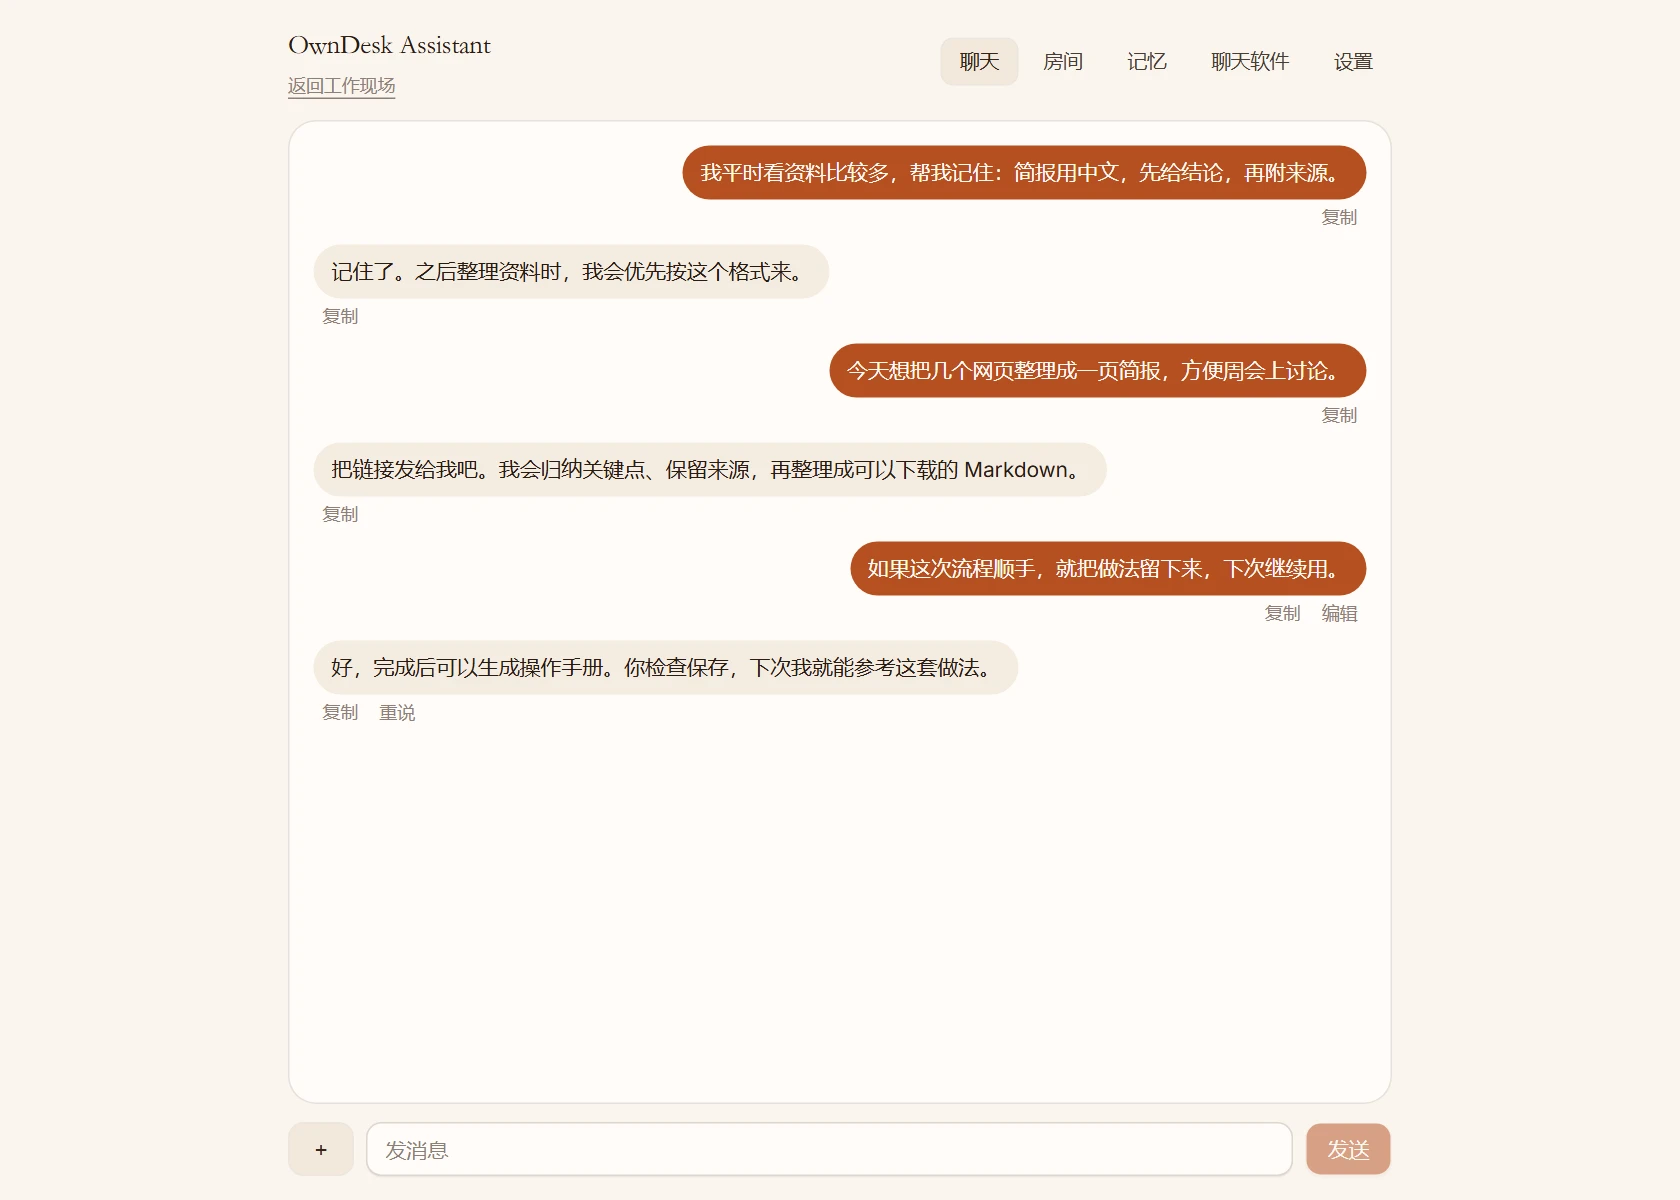
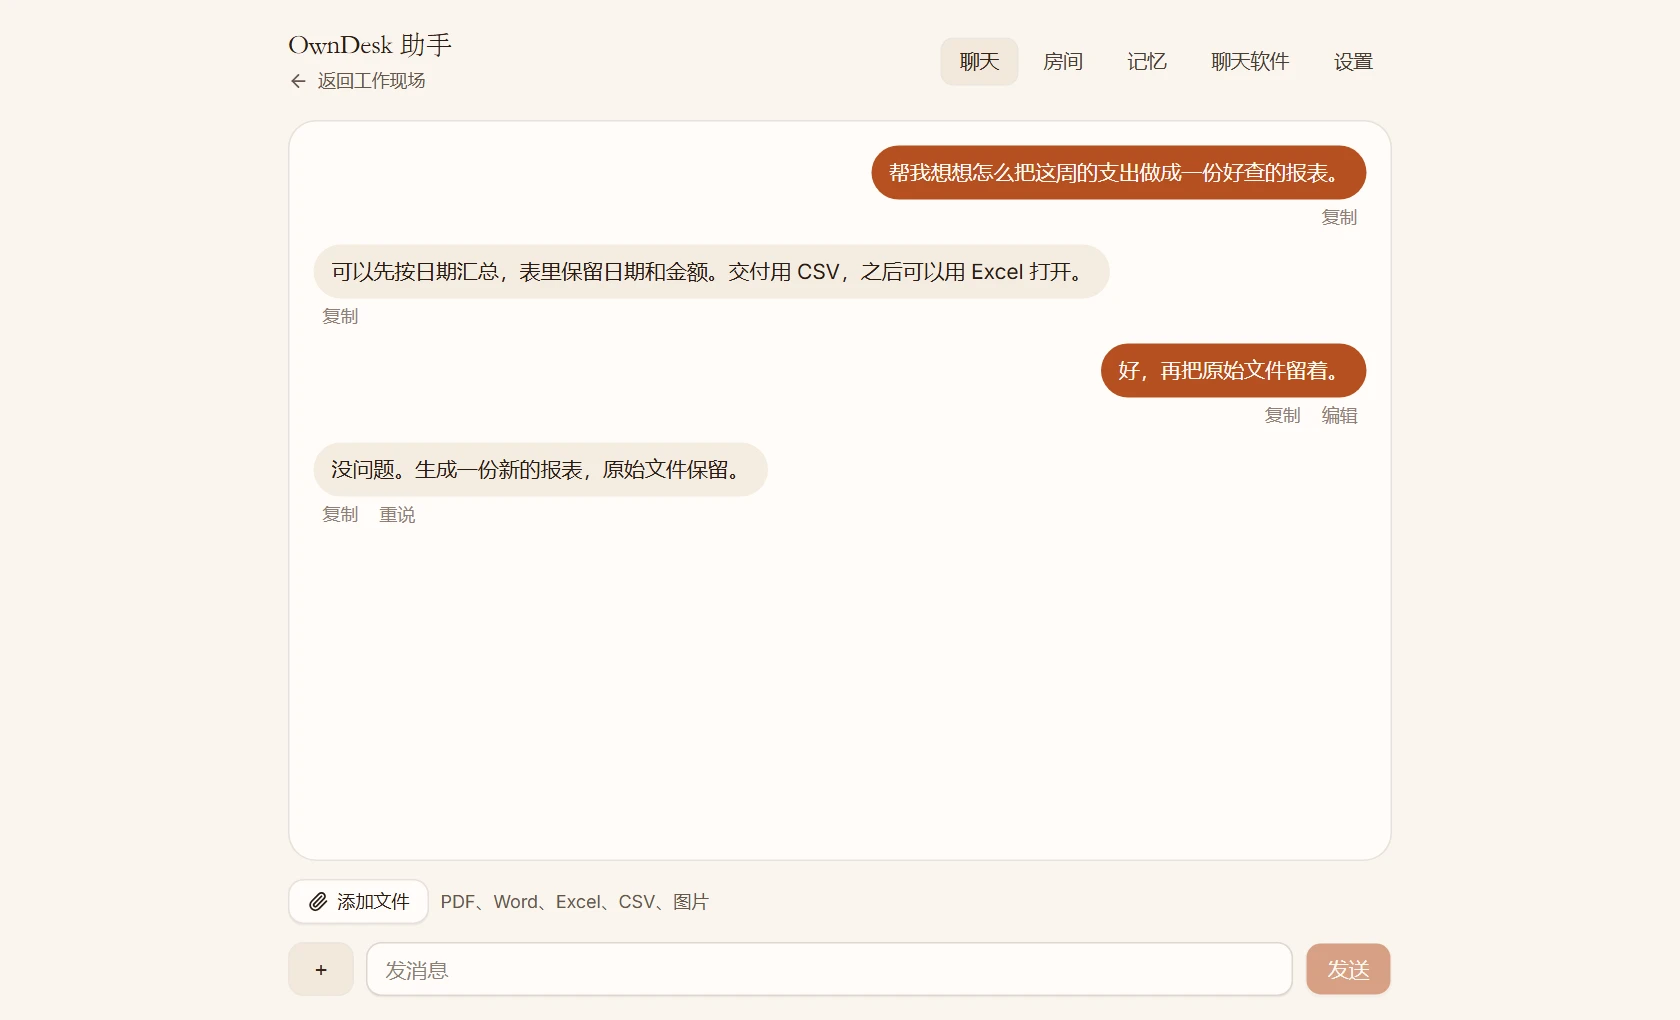
Refresh README for the frontend workspace [skip ci]

diff --git a/docs/README-SHOWCASE.md b/docs/README-SHOWCASE.md
@@ -1,10 +1,10 @@
 # README showcase notes / README 展示说明
 
-Updated / 更新：2026-11-18
+Updated / 更新：2026-11-19
 
 ## References / 参考项目
 
-The README structure was informed by these repositories. Star counts are GitHub API snapshots and describe the reference projects.
+The screenshots and README structure were refreshed after PR #27; the README structure was informed by these repositories. Star counts are GitHub API snapshots and describe the reference projects.
 
 以下为实际阅读过的同类项目 README。Star 数量取自 GitHub API，仅用于说明参考项目规模。
 
@@ -23,24 +23,25 @@ OwnDesk 的文案围绕已有的桌面操作、接管交还、成果下载、长
 
 ## Screenshot provenance / 截图来源
 
-- **Source / 源码**: OwnDesk revision `4fe5239fe27d7ef91038629348f0b470fd11e288`.
-- **Capture / 采集**: a separately running Next.js application, an isolated PostgreSQL database, and Playwright Chromium `156.0.8078.4`; captured on 2026-11-08.
-- **Content / 内容**: a dedicated demo owner, sample conversations, sample memory notes, a saved sample manual, and a downloadable sample Markdown file. The completed task and manual are seeded examples for UI illustration, not a model-run result or evidence that the manual was generated automatically. 示例任务、完成状态、记忆和手册均为专门准备的展示数据。
+- **Source / 源码**: OwnDesk revision `d093ea82dcc3a07f8a278430b349674490af14f3` (PR #27).
+- **Capture / 采集**: a separately running Next.js application, an isolated PostgreSQL database, and Playwright Chromium `156.0.8078.4`; captured on 2026-11-18.
+- **Content / 内容**: a dedicated demo owner, a synthetic completed task, a saved artifact, sample memory notes, and a saved sample manual. The task, status, artifact, and manual are seeded examples for UI illustration, not a model-run result or evidence that the manual was generated automatically. 示例任务、完成状态、成果、记忆和手册均为专门准备的展示数据。
 - **Application / 应用**: original Chinese UI and styles. Preview-only settings disable the development indicator and use a separate build directory. No UI labels or result states were altered in the browser for capture.
 - **Scope / 范围**: web interface screenshots; a Docker desktop or real model was not started for this capture. Real desktop/model evidence remains in `docs/evidence/`. 本次截图未运行模型或 Docker 桌面，真实执行证据见已有报告。
 - **Files / 文件**: WebP images with no browser chrome, credentials, private conversations, or third-party artwork.
 
-| Asset / 图片                            | CSS viewport / 视口   | Page / 页面              | What it shows / 展示内容                                                                    |
-| --------------------------------------- | --------------------- | ------------------------ | ------------------------------------------------------------------------------------------- |
-| [workspace.webp](images/workspace.webp) | 1440 × 1080           | `/`                      | Conversation navigation, sample delivery, follow-up composer / 会话导航、示例交付、追问入口 |
-| [companion.webp](images/companion.webp) | 1120 × 800            | `/companion`             | Companion chat / 陪伴聊天                                                                   |
-| [memory.webp](images/memory.webp)       | 1120 × 800            | `/companion`, memory tab | Editable saved notes / 可编辑记忆                                                           |
-| [manuals.webp](images/manuals.webp)     | 1120 × 800, full page | `/manuals`               | A saved sample manual and expanded steps / 示例手册与展开的操作步骤                         |
-| [mobile.webp](images/mobile.webp)       | 390 × 844             | `/companion`             | Mobile chat layout / 手机聊天界面                                                           |
+| Asset / 图片                                          | CSS viewport / 视口   | Page / 页面              | What it shows / 展示内容                                                                                                |
+| ----------------------------------------------------- | --------------------- | ------------------------ | ----------------------------------------------------------------------------------------------------------------------- |
+| [workspace.webp](images/workspace.webp)               | 1280 × 785            | `/`                      | Workspace navigation, completed task, execution record, downloadable CSV / 工作区导航、已完成任务、执行记录、可下载 CSV |
+| [workspace-mobile.webp](images/workspace-mobile.webp) | 390 × 844             | `/`                      | Compact task workspace / 小屏任务工作区                                                                                 |
+| [companion.webp](images/companion.webp)               | 1120 × 680            | `/companion`             | Companion chat / 陪伴聊天                                                                                               |
+| [memory.webp](images/memory.webp)                     | 1120 × 680            | `/companion`, memory tab | Editable saved notes / 可编辑记忆                                                                                       |
+| [manuals.webp](images/manuals.webp)                   | 1120 × 680, full page | `/manuals`               | A saved sample manual and expanded steps / 示例手册与展开的操作步骤                                                     |
+| [mobile.webp](images/mobile.webp)                     | 390 × 844             | `/companion`             | Mobile chat layout / 手机聊天界面                                                                                       |
 
-Captured at device scale factor 1.5 and encoded as WebP at quality 90. The sample artifact was downloaded through the authenticated application endpoint and its contents checked. The mobile page had no horizontal overflow; no browser page errors were observed. These are interface checks, separate from agent execution validation.
+Captured at device scale factor 1.5 and encoded as WebP at quality 90. The sample artifact was downloaded through the authenticated application endpoint and its contents checked. The workspace, companion, and settings pages had no horizontal overflow; no browser page errors were observed. These are interface checks, separate from agent execution validation.
 
-所有截图采用 1.5 倍设备像素比、WebP 质量 90。已通过登录后的真实下载接口检查示例文件内容；390 像素页面无横向溢出，采集过程中无浏览器页面异常。这些检查仅针对界面和下载。
+所有截图采用 1.5 倍设备像素比、WebP 质量 90。已通过登录后的真实下载接口检查示例文件内容；工作区、陪伴页和设置页在 390 像素下无横向溢出，采集过程中无浏览器页面异常。这些检查仅针对界面和下载。
 
 To refresh the gallery, use a separate source checkout and empty database, create a demo owner and clearly illustrative content, start the web app, and capture the same pages and viewport sizes. Review every image before replacing it, then update the source revision and capture date here.
 
@@ -48,11 +49,11 @@ To refresh the gallery, use a separate source checkout and empty database, creat
 
 ## Self-improvement screenshots / 自我改进截图
 
-These two images come from local test instances during the PR #25 acceptance runs. The pages were captured at a 1280 × 900 viewport, cropped to remove the sidebar and empty margins, and saved as WebP. The instances used synthetic data; no credentials or private conversations are visible.
+These two images come from local test instances. The pages were captured at a 1120 × 800 viewport for the improvement report and a 1120 × 610 viewport for the versions page, then saved as WebP. The instances used synthetic data; no credentials or private conversations are visible.
 
-这两张图来自 PR #25 验收时的本机测试实例。页面以 1280 × 900 视口截图，裁掉侧栏和空白后保存为 WebP。测试实例使用合成数据，画面里没有凭据和私人对话。
+这两张图来自本机测试实例。自我改进页使用 1120 × 800 视口，版本页使用 1120 × 610 视口，保存为 WebP。测试实例使用合成数据，画面里没有凭据和私人对话。
 
-| Asset / 图片                                              | Captured / 日期 | Page / 页面     | Crop / 裁剪          | What it shows / 展示内容                                                                                                      |
-| --------------------------------------------------------- | --------------- | --------------- | -------------------- | ----------------------------------------------------------------------------------------------------------------------------- |
-| [improvement-report.webp](images/improvement-report.webp) | 2026-11-18      | `/improvements` | (130, 66, 1150, 880) | A candidate that passed every check, with adopt, revise, and discard actions / 全部检查通过的候选，以及采用、再改改、放弃按钮 |
-| [versions.webp](images/versions.webp)                     | 2026-11-17      | `/versions`     | (130, 66, 1150, 694) | Current and kept versions, with an automatic rollback in the switch history / 当前版本、保留版本和包含自动回退的切换记录      |
+| Asset / 图片                                              | Captured / 日期 | Page / 页面     | Crop / 裁剪 | What it shows / 展示内容                                                                                                      |
+| --------------------------------------------------------- | --------------- | --------------- | ----------- | ----------------------------------------------------------------------------------------------------------------------------- |
+| [improvement-report.webp](images/improvement-report.webp) | 2026-11-19      | `/improvements` | full page   | A candidate that passed every check, with adopt, revise, and discard actions / 全部检查通过的候选，以及采用、再改改、放弃按钮 |
+| [versions.webp](images/versions.webp)                     | 2026-11-19      | `/versions`     | full page   | Current and kept versions, with an automatic rollback in the switch history / 当前版本、保留版本和包含自动回退的切换记录      |

diff --git a/README.zh-CN.md b/README.zh-CN.md
@@ -20,7 +20,7 @@
 
 </div>
 
-![OwnDesk 任务工作区：对话、完成回复与可下载的 Markdown 简报](docs/images/workspace.webp)
+![OwnDesk 任务工作区：导航、已完成任务、执行记录与可下载的 CSV](docs/images/workspace.webp)
 
 用大白话把任务交给 OwnDesk。它会打开浏览器、处理文件、使用桌面应用，最后交给你可以下载的成果。执行过程中你可以看它的屏幕，遇到登录时接手，处理完再交还。大一点的目标会分成多轮推进，直到完成。
 
@@ -41,16 +41,16 @@
 
 配置好模型后，可以这样交办：
 
-| 想完成的事              | 发给 OwnDesk 的话                                                              |
-| ----------------------- | ------------------------------------------------------------------------------ |
-| **快速了解一个主题**    | “读一下这个公开网页，整理三个要点，保留来源链接，生成 `brief.md` 给我下载。”   |
-| **整理工作目录**        | “把工作站这个目录中的文件分成资料、图片和归档，保留原文件名，完成后核对结果。” |
-| **接着登录后的工作做**  | “打开这个控制台，遇到登录先叫我接管；我交还桌面后，你继续处理。”               |
-| **推进一个长期目标**    | “做一份最近三个月的 `expenses.csv`，每轮补一个月，三个月都齐了就停。”          |
-| **复用熟悉的流程**      | “参考已保存的资料整理手册，按这次主题生成一份新简报。”                         |
-| **让 OwnDesk 改进自己** | “在版本页加一句说明：回退会保留任务和文件。”                                   |
+| 想完成的事             | 发给 OwnDesk 的话                                                              |
+| ---------------------- | ------------------------------------------------------------------------------ |
+| **快速了解一个主题**   | “读一下这个公开网页，整理三个要点，保留来源链接，生成 `brief.md` 给我下载。”   |
+| **整理工作目录**       | “把工作站这个目录中的文件分成资料、图片和归档，保留原文件名，完成后核对结果。” |
+| **接着登录后的工作做** | “打开这个控制台，遇到登录先叫我接管；我交还桌面后，你继续处理。”               |
+| **推进一个长期目标**   | “做一份最近三个月的 `expenses.csv`，每轮补一个月，三个月都齐了就停。”          |
+| **复用熟悉的流程**     | “参考已保存的资料整理手册，按这次主题生成一份新简报。”                         |
+| **查看版本变化**       | “打开版本页，看看保留的版本和回退记录。”                                       |
 
-任务完成后，点击 **生成操作手册**，审阅草稿并保存，下次就能照着做。
+任务完成后，点击 **生成操作手册**，审阅草稿并保存，下次就能照着做。桌面端使用侧栏切换功能，小屏页面使用 **页面导航** 在聊天、目标、改进、版本、手册和流程之间切换。
 
 ## 自我改进与自动回退
 
@@ -119,10 +119,10 @@ flowchart LR
 <details>
 <summary><strong>手机上也能用</strong></summary>
 
-在手机浏览器中打开 OwnDesk，继续聊天、管理助手。网页应用也支持添加到主屏幕，通知配置见[推送指南](docs/push.md)。
+在手机浏览器中打开 OwnDesk，继续聊天、交办任务、查看结果和管理助手。工作区在小屏幕上使用抽屉式侧栏，网页应用也支持添加到主屏幕，通知配置见[推送指南](docs/push.md)。
 
 <p align="center">
-  <img src="docs/images/mobile.webp" alt="OwnDesk 在 390 像素手机视口下的聊天界面" width="320">
+  <img src="docs/images/workspace-mobile.webp" alt="OwnDesk 工作区在 390 像素手机视口下的任务输入界面" width="320">
 </p>
 
 </details>
@@ -236,7 +236,7 @@ flowchart LR
 
 ## 项目进展
 
-**当前处于 Alpha，面向一个主人、一台机器。** 下表内容都已合并到 `main`，状态一列说明各部分验证到什么程度。
+**当前处于 Alpha，面向一个主人、一台机器。** 下表内容都已合并到 `main`，状态一列说明各部分验证到什么程度。最近一次前端整理统一了工作区、页面导航、移动端布局和交付输入。
 
 | 能力                                   | 状态                                                         |
 | -------------------------------------- | ------------------------------------------------------------ |

diff --git a/README.md b/README.md
@@ -20,7 +20,7 @@ It chats with you, works on a real desktop, keeps long-running goals moving, and
 
 </div>
 
-![OwnDesk task workspace with a conversation, a completed reply, and a downloadable Markdown brief](docs/images/workspace.webp)
+![OwnDesk task workspace with navigation, a completed task, execution records, and a downloadable CSV](docs/images/workspace.webp)
 
 Give OwnDesk a task in plain language. It opens a browser, works with files and desktop apps, and hands back something you can download. You can watch its screen, take over for a login, and hand control back. Bigger goals run in rounds until they are done.
 
@@ -48,9 +48,9 @@ After connecting a model, try one of these:
 | **Work through a login**      | “Open this dashboard. Ask me to take over when you reach the login, then continue after I hand it back.”                       |
 | **Keep a goal moving**        | “Build `expenses.csv` for the last three months, one month per round, and stop when all three months are in.”                  |
 | **Repeat a familiar process** | “Use my saved research-brief manual to prepare a new brief on this topic.”                                                     |
-| **Improve OwnDesk itself**    | “On the versions page, add a sentence explaining that a rollback keeps tasks and files.”                                       |
+| **Review a version change**   | “Open the versions page and show me the retained versions and rollback history.”                                               |
 
-After a useful task, choose **生成操作手册** (Generate operation manual), review the draft, and save the steps for next time.
+After a useful task, choose **生成操作手册** (Generate operation manual), review the draft, and save the steps for next time. Use the sidebar on the workspace or **页面导航** (Page navigation) on settings pages to move between chat, goals, improvements, versions, manuals, and workflows.
 
 ## Self-improvement with automatic rollback
 
@@ -119,10 +119,10 @@ Screenshots show the running application’s Chinese interface with illustrative
 <details>
 <summary><strong>On your phone, too</strong></summary>
 
-Open OwnDesk in a mobile browser to chat and manage your assistant. The web app also supports installation to your home screen; see the [notification guide](docs/push.md).
+Open OwnDesk in a mobile browser to chat, submit tasks, inspect results, and manage your assistant. The workspace uses a compact drawer on small screens; see the [notification guide](docs/push.md) for installation and notifications.
 
 <p align="center">
-  <img src="docs/images/mobile.webp" alt="OwnDesk companion chat at a 390-pixel mobile viewport" width="320">
+  <img src="docs/images/workspace-mobile.webp" alt="OwnDesk task workspace at a 390-pixel mobile viewport" width="320">
 </p>
 
 </details>
@@ -236,7 +236,7 @@ Model decisions, actions, and results are recorded separately, so the worker res
 
 ## Project status
 
-**Alpha, built for one owner on one machine.** Everything below is merged into `main`; the status column shows how far each part has been checked.
+**Alpha, built for one owner on one machine.** Everything below is merged into `main`; the status column shows how far each part has been checked. The latest frontend refresh aligns the workspace, page navigation, mobile layout, and delivery inputs.
 
 | Area                                                          | Status                                                                                |
 | ------------------------------------------------------------- | ------------------------------------------------------------------------------------- |

diff --git a/docs/ROADMAP.md b/docs/ROADMAP.md
@@ -1,6 +1,6 @@
 # OwnDesk 路线图
 
-更新：2026-11-18
+更新：2026-11-19
 
 OwnDesk 先做好一个人、一台机器上的个人 Agent。这里记录已经合并的阶段、接下来的顺序，以及每个阶段做完的标准。阶段设计见[长期目标与自我改进设计](design/goal-and-self-evolution-plan.md)，详细验证历史见[开发状态](STATUS.md)。
 
@@ -35,6 +35,7 @@ flowchart LR
 | 11-13          | [#23](https://github.com/wudilyy999/owndesk/pull/23) | A1 长期目标：目标页、多轮推进、确认卡、暂停/停止、连续失败自动暂停                    |
 | 11-14          | [#24](https://github.com/wudilyy999/owndesk/pull/24) | B0 版本底座：更新器、保留版本、健康检测、自动回退、版本页                             |
 | 11-18          | [#25](https://github.com/wudilyy999/owndesk/pull/25) | B1 自我改进首版：隔离实验室、评测、报告、采用、自动回退和修复轮次                     |
+| 11-18          | [#27](https://github.com/wudilyy999/owndesk/pull/27) | 前端整理：删除重复架构文案，统一工作区、页面导航、移动端布局和交付输入                |
 
 11-08 七项能力的逐项实现和检查记录保留在[交付记录](DELIVERY-ROADMAP.md)，那份文件现在作为历史日志。
 
